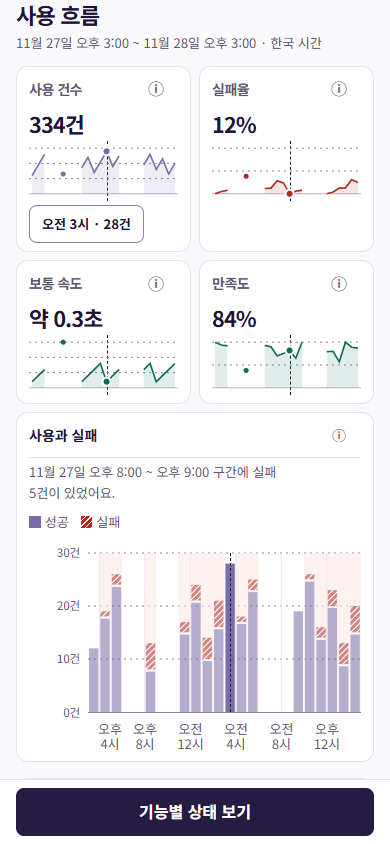
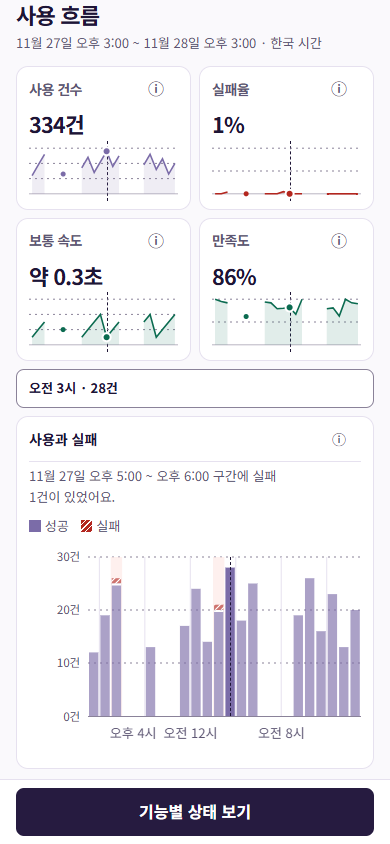
fix: 요약 카드 선택 시 레이아웃과 초점 안정화

diff --git a/web/src/Chart.tsx b/web/src/Chart.tsx
@@ -24,8 +24,9 @@ function buckets(rows: Stat[], start: number, now: number, count: number, thresh
     const from = start + i * width;
     const until = from + width;
     const endLabel = weekday.format(from) === weekday.format(until) ? clockMinute : dateTime;
-    const startLabel = width >= day ? weekday : from % hour === 0 ? clock : clockMinute;
-    return { label: dateTime.format(from) + " ~ " + endLabel.format(until), startLabel:startLabel.format(from),
+    const label = dateTime.format(from) + " ~ " + endLabel.format(until);
+    const startLabel = width >= day ? label : (from % hour === 0 ? clock : clockMinute).format(from);
+    return { label, startLabel,
       hasRecords:group.length > 0, ...summarize(group,thresholds) };
   });
 }
@@ -137,6 +138,7 @@ function description(p:Bucket,p95:number|null) {
   return p.label + values(p,p95).map(([name,value]) => " · "+name+" "+value).join("");
 }
 type Cursor = {index:number; owner:string};
+const sameCursor = (a:Cursor|null,b:Cursor|null) => a?.index === b?.index && a?.owner === b?.owner;
 type Selection = {
   active:Cursor|null; selected:number; focus:(cursor:Cursor|null) => void; hover:(cursor:Cursor|null) => void;
 };
@@ -181,7 +183,7 @@ function StatPanel({title,help,value,series,unit,selection,points,p95}:{title:st
           cx={percent(center(i,series.length))} cy={percent(pointY(n))} r={i === active ? 4 : 2.5} fill="currentColor"/>)}
     </svg><CursorTarget owner={title} points={points} selection={selection} p95={p95} reading={reading} crosshair/>
     </div>
-    {selection.active?.owner === title && <div className="spark-readout">
+    {selection.active?.owner === title && <div className="spark-readout" data-align={selection.active.index < series.length / 2 ? "end" : "start"}>
       <div role="tooltip" className="flow-tip"><strong>{reading(selection.active.index)}</strong></div>
     </div>}
   </article>;
@@ -302,21 +304,29 @@ export function Chart({ rows, days, now, baseline, p95 = null, samples, learnsRa
   const period = useMemo(() => summarize(rows.filter(r => Date.parse(r.bucket) >= start && Date.parse(r.bucket) <= now),thresholds),[rows,start,now,thresholds]);
   const [selected,setSelected] = useState(() => Math.max(0,points.findIndex(p => p.total > 0)));
   const [focused,setFocused] = useState<Cursor|null>(null);
-  const [hovered,hover] = useState<Cursor|null>(null);
+  const [hovered,setHovered] = useState<Cursor|null>(null);
   const active = hovered ?? focused;
-  const selection:Selection = {selected,active,hover,focus:cursor => {setFocused(cursor); if (cursor) setSelected(cursor.index);}};
+  const selection:Selection = {selected,active,
+    hover:cursor => { if (!sameCursor(hovered,cursor)) setHovered(cursor); },
+    focus:cursor => {
+      if (!sameCursor(focused,cursor)) setFocused(cursor);
+      if (cursor && selected !== cursor.index) setSelected(cursor.index);
+    },
+  };
   useEffect(() => {
-    function escape(e:KeyboardEvent) { if (e.key === "Escape") {setFocused(null); hover(null);} }
+    function escape(e:KeyboardEvent) { if (e.key === "Escape") {setFocused(null); setHovered(null);} }
     document.addEventListener("keydown",escape);
     return () => document.removeEventListener("keydown",escape);
   },[]);
   const worst = points.reduce((a, b) => a.failures >= b.failures ? a : b);
   const occupied = points.filter(p => p.total > 0).length;
   const shared = {selection,points,p95};
+  const longestTime = points.reduce((longest,p) => p.startLabel.length > longest.length ? p.startLabel : longest,"");
+  const totalLabel = period.total.toLocaleString("ko-KR")+"건";
   return <>
     <p className="flow-range">{dateTime.format(start)} ~ {dateTime.format(now)} · 한국 시간</p>
-    <div className="stat-grid">
-      <StatPanel {...shared} title="사용 건수" unit="건" help="선택한 기간의 전체 사용 횟수예요." value={period.total.toLocaleString("ko-KR")+"건"} series={points.map(p => p.hasRecords ? p.total : null)}/>
+    <div className="stat-grid" data-readout-size={longestTime+" · "+(totalLabel.length > 6 ? totalLabel : "기록 없음")}>
+      <StatPanel {...shared} title="사용 건수" unit="건" help="선택한 기간의 전체 사용 횟수예요." value={totalLabel} series={points.map(p => p.hasRecords ? p.total : null)}/>
       <StatPanel {...shared} title="실패율" unit="%" help="판정할 수 있는 요청 중 실패한 비율이에요." value={rate(period.eligible,period.failures)} series={points.map(p => p.eligible ? 100*p.failures/p.eligible : null)}/>
       <StatPanel {...shared} title="보통 속도" unit="초" help="성공 요청에 걸린 시간의 중앙값이에요." value={approximateDuration(period.median)} series={points.map(p => p.median)}/>
       {!!thresholds?.size && <StatPanel {...shared} title="만족도" unit="%" help="선택 기간 중 평소 상한 안에 끝난 성공 요청 비율이에요." value={period.satisfaction === null ? "기록 없음" : period.satisfaction+"%"} series={points.map(p => p.satisfaction)}/>}

diff --git a/web/src/styles/dashboard.css b/web/src/styles/dashboard.css
@@ -215,15 +215,17 @@
 .time-grid { stroke:var(--sp-line); stroke-width:1; }
 .flow-marks .muted-bar { opacity:.56; }
 .flow-marks g, .flow-marks circle { transition:opacity var(--sp-dur-press),r var(--sp-dur-press); }
-.flow-hit .flow-selection { outline:0; width:0; border-left:1px dashed var(--sp-ink); transition:left 85ms var(--sp-ease-out); }
-.spark-plot .flow-hit .flow-selection { transition:none; }
+.flow-hit .flow-selection { outline:0; width:0; border-left:1px dashed var(--sp-ink); }
 .metrics-board .flow-plot, .plot-readout { grid-area:1 / 2; }
 .plot-readout { position:relative; pointer-events:none; }
 .plot-readout .flow-tip, .spark-readout .flow-tip { --tip-width:min(17rem,100%); width:var(--tip-width); box-sizing:border-box;
   display:grid; gap:2px; top:var(--sp-space-1); bottom:auto; inset-inline:auto;
   padding:var(--sp-space-2) var(--sp-space-3); border:1px solid var(--sp-line-strong); color:var(--sp-ink);
   background:var(--sp-surface); font-size:var(--sp-text-xs); box-shadow:var(--sp-hero-shadow); }
-.spark-readout .flow-tip { position:static; width:fit-content; max-width:100%; margin:var(--sp-space-1) 0 0; }
+.stat-panel { position:relative; }
+.spark-readout { position:absolute; z-index:2; bottom:var(--sp-space-2); inset-inline:var(--sp-space-3); display:flex; pointer-events:none; }
+.spark-readout[data-align="end"] { justify-content:flex-end; }
+.spark-readout .flow-tip { position:static; width:fit-content; max-width:100%; margin:0; }
 .flow-tip > span { display:flex; justify-content:space-between; gap:var(--sp-space-2); }
 .flow-tip em { font-style:normal; font-weight:bold; text-align:end; }
 .tip-label { color:var(--sp-ink-2); flex-shrink:0; }
@@ -235,6 +237,16 @@
   .monitor-toolbar .refresh-button { width:var(--sp-touch); justify-content:center; }
   .refresh-button > span { display:none; }
   .metrics-board .stat-grid { grid-auto-flow:row; grid-template-columns:repeat(2,minmax(0,1fr)); }
+  .metrics-board .stat-grid { position:relative; }
+  .stat-grid .stat-panel { position:static; }
+  /* Size the shared row before interaction, including wrapped weekly ranges at large text sizes. */
+  .stat-grid::after {
+    content:attr(data-readout-size); visibility:hidden; grid-column:1 / -1;
+    padding:var(--sp-space-2) var(--sp-space-3); border:1px solid transparent;
+    font-size:var(--sp-text-xs); font-weight:bold;
+  }
+  .spark-readout { inset:auto 0 0; }
+  .spark-readout .flow-tip { width:100%; }
   .metrics-board .flow-plots { gap:var(--sp-space-4); }
   .stat-panel header { position:relative; }
   .stat-panel .panel-help { position:static; }
@@ -244,6 +256,19 @@
     gap:var(--sp-space-1) var(--sp-space-3); }
   .plot-readout .flow-tip strong { flex-basis:100%; }
   .metrics-board .stat-panel, .metrics-board .flow-figure { padding-inline:var(--sp-space-3); }
+  .dashboard-shell .monitor { grid-template-columns:minmax(0,1fr); }
+  .monitor .dashboard-state:has(+ .usage-panel) { grid-template-columns:auto minmax(0,1fr); }
+  .monitor .dashboard-state:has(+ .usage-panel) p, .dashboard-state .incident-actions { grid-column:1 / -1; }
+  .dashboard-state .status-badge { margin-bottom:0; }
+  .monitor-toolbar, .range-control, .auto-control { min-width:0; max-width:100%; flex-wrap:wrap; }
+  .monitor .panel input { min-width:0; max-width:100%; }
+  .monitor .panel label { min-width:0; max-width:100%; }
+  .monitor table { overflow-wrap:anywhere; }
+  .flow-plots .flow-x { --tick-width:33%; min-height:3.8em; }
+  .flow-plots .flow-x span:nth-child(even) { display:none; }
+  .flow-plots .flow-x span { overflow-wrap:anywhere; }
+  .plot-readout, .flow-tip strong, .plot-readout .flow-tip > span { min-width:0; max-width:100%; }
+  .plot-readout .flow-tip > span { flex-wrap:wrap; }
 }
 @media (prefers-reduced-motion:reduce) {
   .flow-hit .flow-selection, .flow-marks g, .flow-marks circle { transition:none; }

diff --git a/docs/design/qa/crosshair/index.html b/docs/design/qa/crosshair/index.html
@@ -19,7 +19,8 @@
 </head>
 <body>
   <main><h1>요약 카드 십자선 비교</h1>
-    <p>모임 신청의 오전 3시 사용량은 28건이다. 같은 칸을 가리킨 수정 전후 화면에서 기준선, 선택점, 툴팁과 아래 그래프의 위치를 비교할 수 있다. 이미지를 누르면 원본 크기로 열린다.</p>
+    <p>오전 3시의 모임 신청 28건을 가리킨 화면이다. 가운데는 PR #52의 첫 검수본, 오른쪽은 툴팁이 그래프를 밀지 않도록 고친 화면이다. 24시간에 사용 334건, 실패 2건이 있었고 열린 문제는 없다. 이미지를 누르면 원본 크기로 열린다.</p>
+    <p><a href="week-390-text200.png">390px · 글자 200%에서 7일 구간 선택</a> · <a href="waiting-390.png">390px · 첫 기록 대기 안내</a> · <a href="https://github.com/ship-and-ping/ship-and-ping-backend/tree/1484198e3a24cfd035b1ad04ea5a7343ecb7c070/docs/design/qa/crosshair">최초 T57 구현 전후 캡처</a></p>
     <section><h2>1440px · 밝게</h2>
       <div class="comparison">
         <figure><figcaption>Grafana Stat</figcaption><a href="../demo-insights/refs/stat-1440-light.png"><img src="../demo-insights/refs/stat-1440-light.png" alt="1440px 밝게 Grafana Stat 화면"></a></figure>

diff --git a/docs/위임로그/김태형.md b/docs/위임로그/김태형.md
@@ -597,3 +597,4 @@
 | 목표 | 프롬프트 | 결과 | 검증 | 수정 | 배운 점 |
 |---|---|---|---|---|---|
 | 요약 카드에서 높낮이와 시간별 값을 읽는다. | [T57 지시문](../../prompts/tasks/T57.md) | 카드 4개와 큰 그래프 2개에 같은 시간 칸을 표시하고, 조작 중인 카드에 시각과 단위를 표시한다. [전후·Grafana 비교](../design/qa/crosshair/index.html) | 웹 테스트 2,996개, 빌드·린트 통과. Windows Edge에서 1440px·390px의 두 테마를 촬영하고 터치 드래그 동기화, 툴팁 경계, 추가 조회 0건을 확인했다. 빈 칸을 0으로 바꾼 변형을 검출했다. | 기존 시간 선택과 큰 그래프의 선·툴팁 스타일을 재사용했다. 빈 구간을 끊고 선택점에는 2px 표면색 테두리를 넣었다. | 기록이 없는 칸을 0건으로 이으면, 관측된 값이 바닥까지 내려간 것처럼 보인다. |
+| 첫 검수에서 발견한 툴팁 이동, 큰 글자 넘침과 구간 표시를 고친다. | [T57 검수 요청](../../prompts/tasks/T57.md#t57-검수-미통과--수정-요청) | 데스크톱은 카드 안에 말풍선을 띄우고 모바일은 카드 묶음 밑에 선택값 한 줄을 확보했다. 7일 구간과 선 이동 시점이 큰 그래프와 같다. 첫 기록 안내 본문은 카드 너비를 모두 쓴다. [검수 전후 비교](../design/qa/crosshair/index.html) | Edge에서 카드 hover 전후 큰 그래프의 Y 차이 0px, 390px·글자 200% 기능 상세와 그래프 선택의 가로 넘침 0px. 같은 칸 이동의 추가 React 커밋 0회. 기준선 50% 고정 변형 검출. 전체 2,997개·빌드·린트 통과. 첫 전체 실행의 별도 앱 삭제 재시도 초점 검사 1건은 재실행에서 통과했다. | 200%에서 397px까지 늘던 기능 상세 표와 조작줄·축을 조정했다. Escape 검사는 첫 조회의 제목 초점과 기간 버튼 활성화가 끝난 뒤 조작한다. 캡처 예시는 334건 중 2건 실패다. | 그래프 노출, 조회 완료, 초기 초점 부여는 서로 다른 시점이다. 초점을 보존하는 검사는 먼저 시작 초점을 확인해야 한다. |

diff --git a/prompts/tasks/T57.md b/prompts/tasks/T57.md
@@ -33,3 +33,7 @@
 
 ## T57 추가 지시
 추가(사용자 2026-11-28): 아래 큰 그래프의 점선 기준선은 사용자가 '잘 되어 있다'고 함. 요약 카드 미니 그래프의 기준선·십자선·툴팁은 새로 디자인하지 말고 아래 큰 그래프와 같은 스타일(같은 점선 색·굵기·간격, 같은 툴팁 모양)을 그대로 재사용해 통일할 것. 큰 그래프 쪽은 바꾸지 말 것(동기화 표시만 예외).
+
+## T57 검수 미통과 — 수정 요청
+
+PR #52 검수 미통과. 같은 브랜치에서 고치고 push 후 worker_done. ① [중간] dashboard.css:226·Chart.tsx:184 툴팁이 일반 흐름에 들어가 자리를 차지(390px 첫 카드 hover만으로 아래 그래프가 410→453px 이동) → 레이아웃을 밀지 않는 떠 있는 말풍선. 모바일(390)은 카드 묶음 아래 고정 영역 한 줄에 선택값 표시(다음 카드 수치를 덮지 않게; T60 검토 #02: 390 툴팁 149×194가 다음 카드 덮음). ② [중간] dashboard.css:218-219 카드 0ms·큰 그래프 85ms 전환 차이 → 선 이동 시점 통일(전환 없음 권장, reduced-motion 무관하게 즉시). ③ [중간] Chart.tsx:27 7일 보기에서 카드가 날짜만 표기해 구간이 큰 그래프와 다름 → 같은 구간 문구. ④ [낮음] Chart.tsx:266 같은 칸 안 포인터 이동마다 React 커밋 → 칸이 바뀔 때만 상태 갱신. ⑤ [낮음] monitor.test.tsx:28 y좌표 50% 고정으로 겹침 변형이 통과 → 실제 값 기반 테스트. ⑥ [낮음] qa fixture: 열린 사건 없음+실패 40/334로 '괜찮아요' 캡처 → 예시 데이터를 현실적으로(열린 사건 넣거나 실패 줄이기). 추가(T60 전체 검토, 같은 파일): #05 390px 루트 글자 200%에서 기능 상세 +5px·그래프 선택 +23px 가로 넘침 → 그리드 최소 너비·조작줄 줄바꿈·축 라벨 공간. #13 첫 기록 대기 카드에서 다음 행동 문장이 좁은 열에 9줄 → 배지·제목만 첫 줄, 본문은 다음 줄 전체. 기존 monitor.test.tsx:214 Escape 뒤 초점 플래키(첫 실행 실패) 원인도 확인. 전/후 캡처 갱신.
